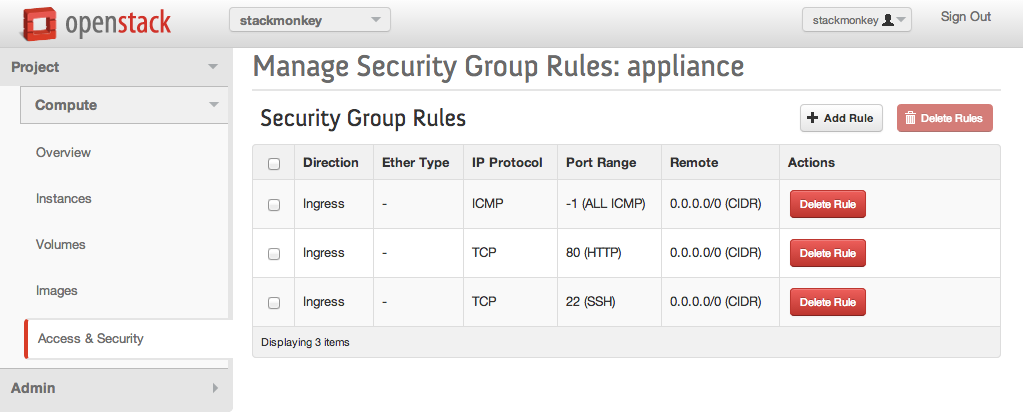
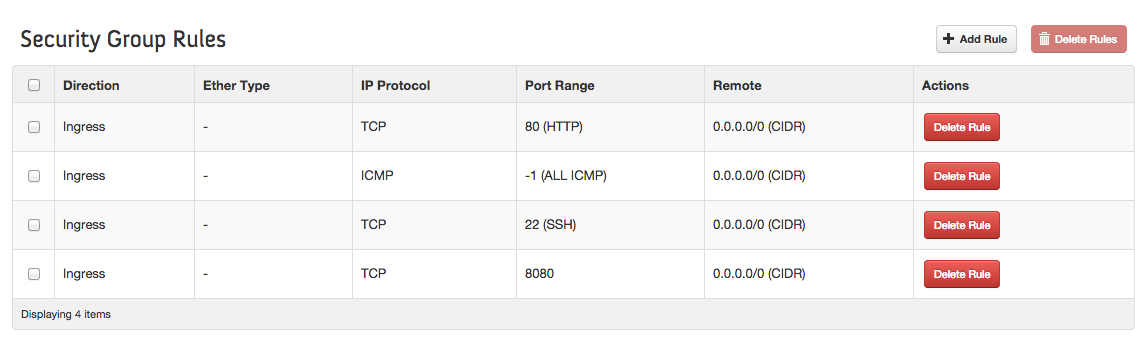
make appengine listen on 0.0.0.0, fix docs for appliance groups, patch splunk install link

diff --git a/templates/site/docs.html b/templates/site/docs.html
@@ -197,11 +197,17 @@ chmod 600 ~/.ssh/stackmonkey.pem
             <li>Click on the <strong>Project</strong> tab to the far left and then click on <strong>Compute..Access &amp; Security</strong>.</li>
             <li>Click on the <strong>Security Groups</strong> tab at the top.  To the right, click on the <strong>Create Security Group</strong> button.</li>
             <li>Name the security group <strong>'appliance'</strong> and enter a short description.  Click <strong>Create Security Group</strong> to create the group.</li>
-            <li>Click the <strong>Manage Rules</strong> button to the right in the <strong>appliance</strong> security group row.  Click <strong>Add Rule</strong> and then enter the number <strong>'22'</strong> (ssh) in the port field.  Click <strong>Add</strong>.  Repeat this step and enter the number <strong>'80'</strong> (http) in the port field instead.  Click <strong>Add</strong> again.</li>
+            <li>Click the <strong>Manage Rules</strong> button to the right in the <strong>appliance</strong> security group row.  Click <strong>Add Rule</strong> and then enter the number <strong>'22'</strong> (ssh) in the port field.  Click <strong>Add</strong>.  Repeat this step and enter the number <strong>'80'</strong> (http) in the port field instead.  Click <strong>Add</strong> again. Repeat one more time, and enter the number <strong>8080</strong> in the port filed. Click <strong>Add</strong> one final time.</li>
             <li>Click the <strong>Manage Rules</strong> button again, but this time click on the <strong>Rule</strong> pulldown and select <strong>Custom ICMP Rule</strong>.  Enter the number '-1' in <strong>both</strong> the <strong>Type</strong> and <strong>Code</strong> fields.  Click <strong>Add</strong> to add the rule.</li>
           </ul>
           <p>Your <strong>appliance</strong> security group rules should now look like this:</p>
-          <p><a target="_blank" href="/img/site/appliance_groups.png"><img src="/img/site/appliance_groups_thumb.png" alt="OpenStack Groups"></a></p>          
+          <p><a target="_blank" href="/img/site/appliance_groups.png"><img src="/img/site/appliance_groups_thumb.png" alt="OpenStack Groups"></a></p>
+
+          <div class="bs-callout bs-callout-warning bs-callout-top">
+            <h4>Disabling Appliance Ports</h4>
+            <p>The appliance uses <strong>port 80</strong> for HTTP connections, <strong>port 22</strong> for ssh access, and <strong>port 8080</strong> for the reverse caching proxy for Glance images.  If you would like to disable the appliance's ports for security purposes, you must leave <strong>port 8080</strong> open for image caching if you have that option enabled in the configuration settings.</p>
+          </div>
+
           <p>The instances being sold by the appliance will need unrestricted access from the Internet if they have publicly accessible IPv4 addresses. The appliance does not currently manage security groups, so you need to manually open up the default group to allow all access to the instances.</p>
           <p>Follow these steps to set up the access rules for the instances the appliance starts:</p>
           <ul>

diff --git a/templates/site/demos/splunk_instance.html b/templates/site/demos/splunk_instance.html
@@ -64,6 +64,7 @@
       <div id="back" class="row">
         <div id="back-inner" class="col-md-4 hidden">
           <button type="button" id="back-to-demos-button" class="btn btn-info"><span class="glyphicon glyphicon-arrow-left"></span> Back to Demos</button>
+          <button type="button" id="instance-details-button" class="btn btn-success"><span class="glyphicon glyphicon-search"></span> View Instance Details</button>
         </div>
       </div>
     </div>
@@ -133,7 +134,7 @@
     var update_info = function() {
       // update bits to indicate splunk is running
       $('#info-title').html("Step #4: Access the Splunk UI");
-      $('#info').html("The Splunk instance is ready and the UI can be accessed <a id='splunk-link' target='_blank'>from here</a>.");
+      $('#info').html("The Splunk instance is ready and the UI can be accessed <a href='http://"+ipv4+":8000' target='_blank'>from here</a>.");
     }
 
     // meta data
@@ -152,8 +153,6 @@
     onMessage = function(packet) {
       var data = JSON.parse(packet.data);
       var name = data.name;
-
-      console.log("onmessage"+data.state);
 
       // if our ajax state is larger than the existing state
       if (data.state > prev_state) {
@@ -196,9 +195,14 @@
       }
     }, 1000);
 
-    // wire delete reservation
+    // go back to demos
     $('#back-to-demos-button').click(function() {
       window.location = "{{ uri_for('demo') }}";
+    });
+
+    // wire delete reservation
+    $('#instance-details-button').click(function() {
+      window.location = "{{ uri_for('lab-instance-detail', token=instance.token) }}";
     });
 
     // map
